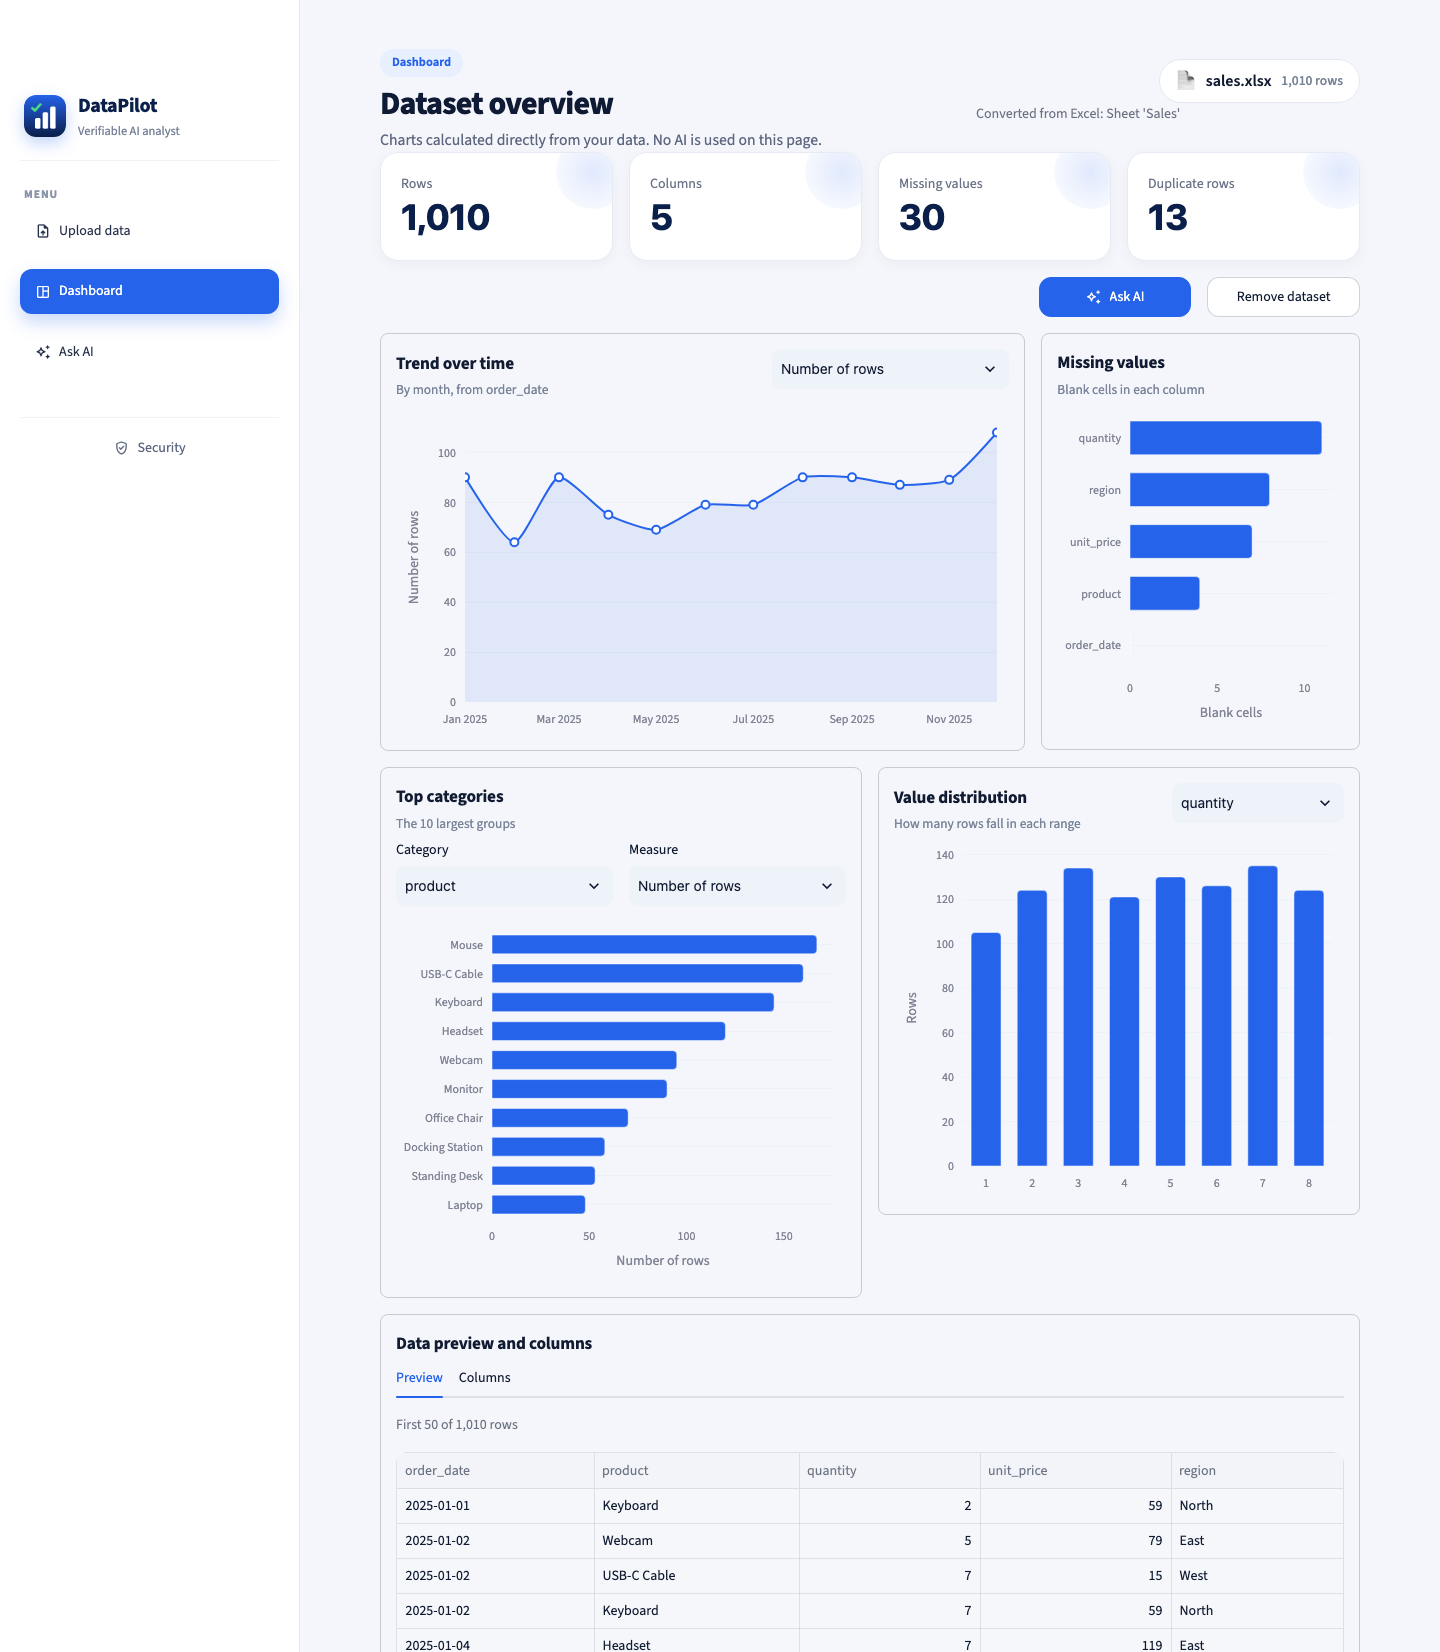
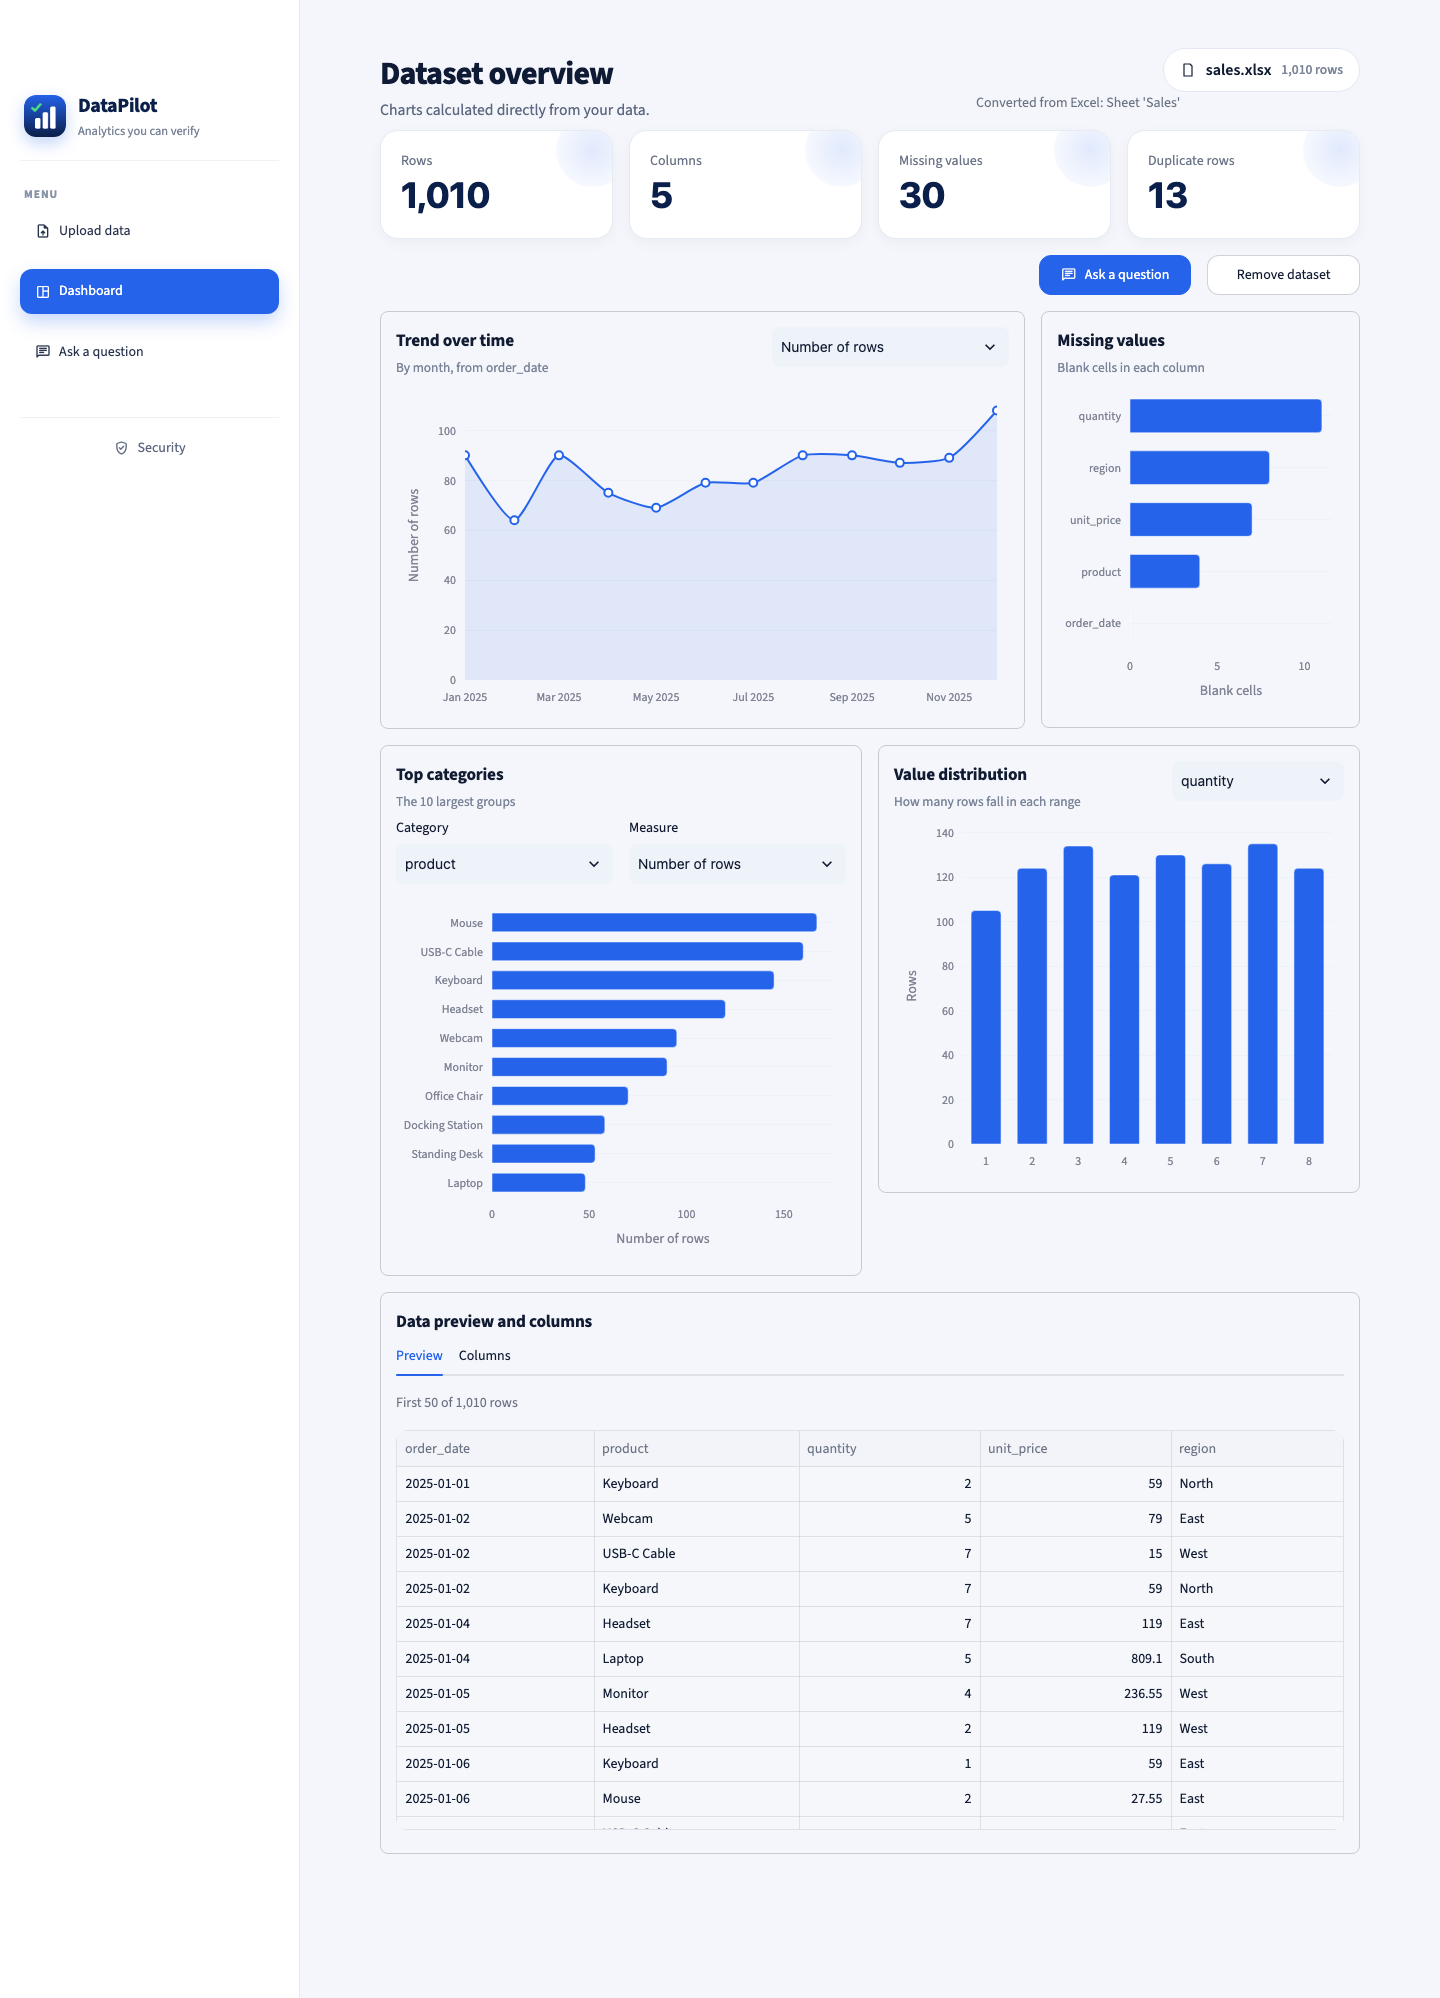
Clarify the verification hint and refresh screenshots

diff --git a/frontend/app.py b/frontend/app.py
@@ -727,7 +727,7 @@ def show_summary(record: dict) -> None:
     elif verified:
         show_html(
             f'<div class="dp-verify-summary">{verified} of {len(checks)} figures were recalculated independently '
-            "and match. Hover over a figure's label to see how it was checked.</div>"
+            "and match. Hover over \"Verified\" to see how each one was checked.</div>"
         )
 
 
